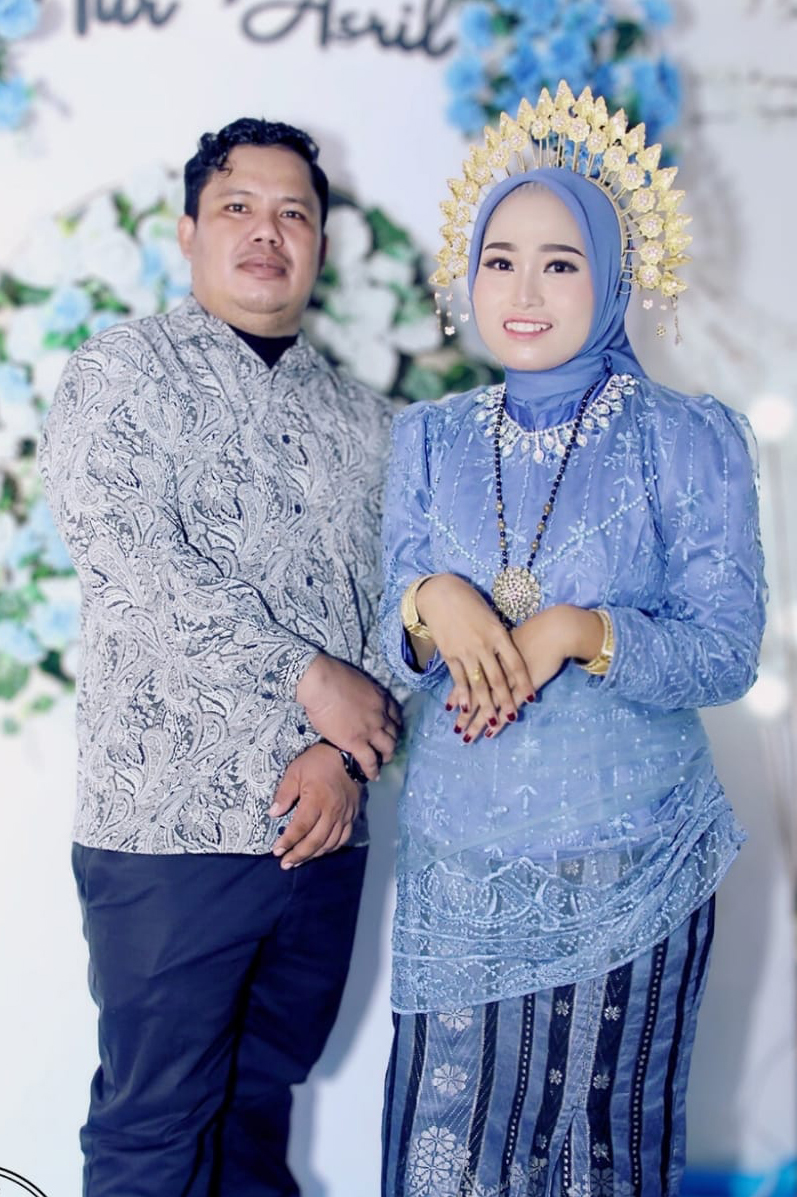
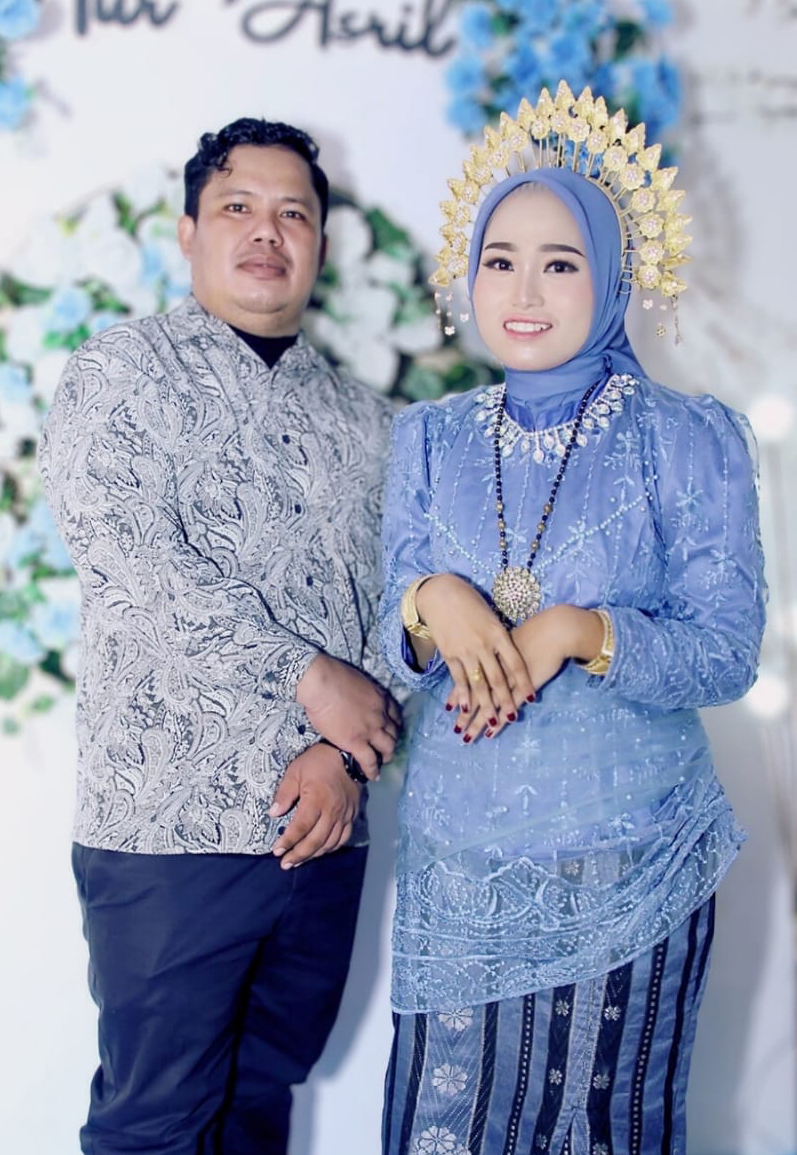
ubah undangan-nama

diff --git a/resources/views/undangan/asril&muhria/_countdown.blade.php b/resources/views/undangan/asril&muhria/_countdown.blade.php
@@ -10,7 +10,7 @@
     <!-- Gambar -->
     <div class="flex justify-center mb-6"
          data-aos="zoom-in" data-aos-delay="400">
-        <img src="{{ asset('assets/asril2.jpg') }}" alt="Count_Down"
+        <img src="{{ asset('assets/asril_countdown.jpg') }}" alt="Count_Down"
              class="w-32 h-32 md:w-40 md:h-40 bg-white rounded-full shadow-lg ring-4 ring-white object-cover" />
     </div>
 
